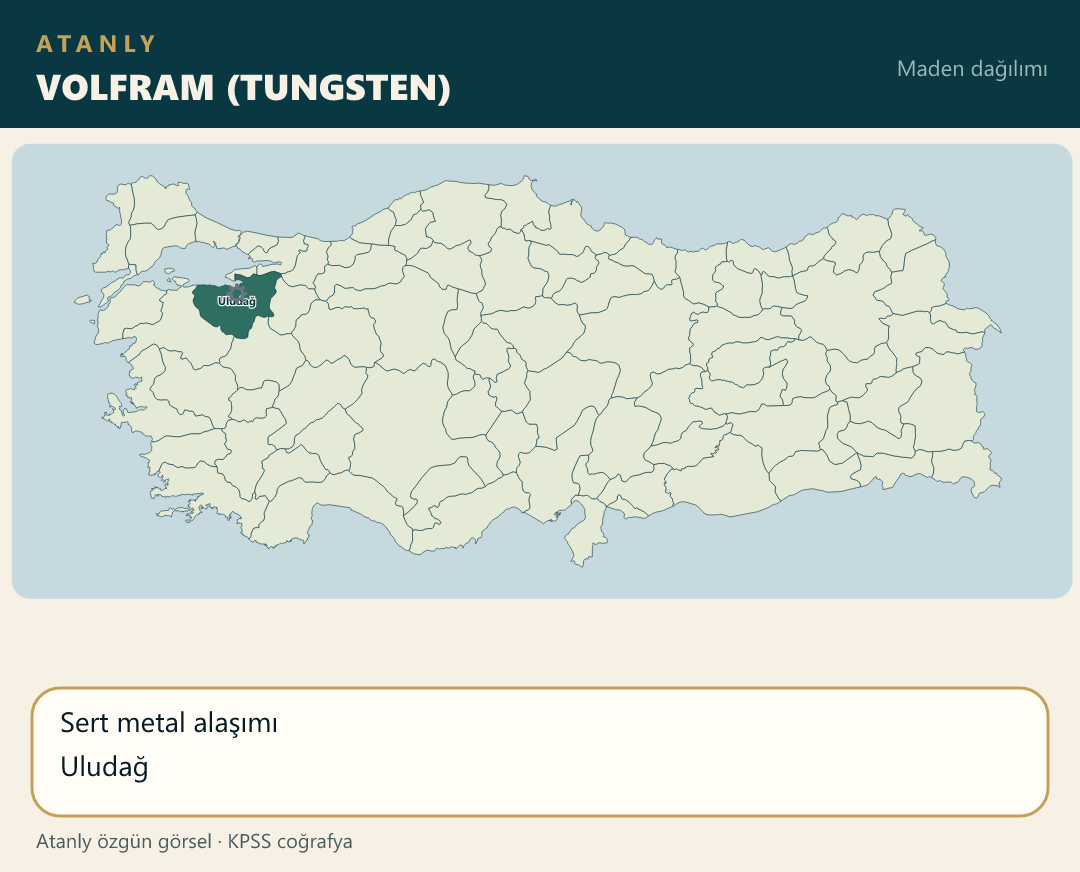
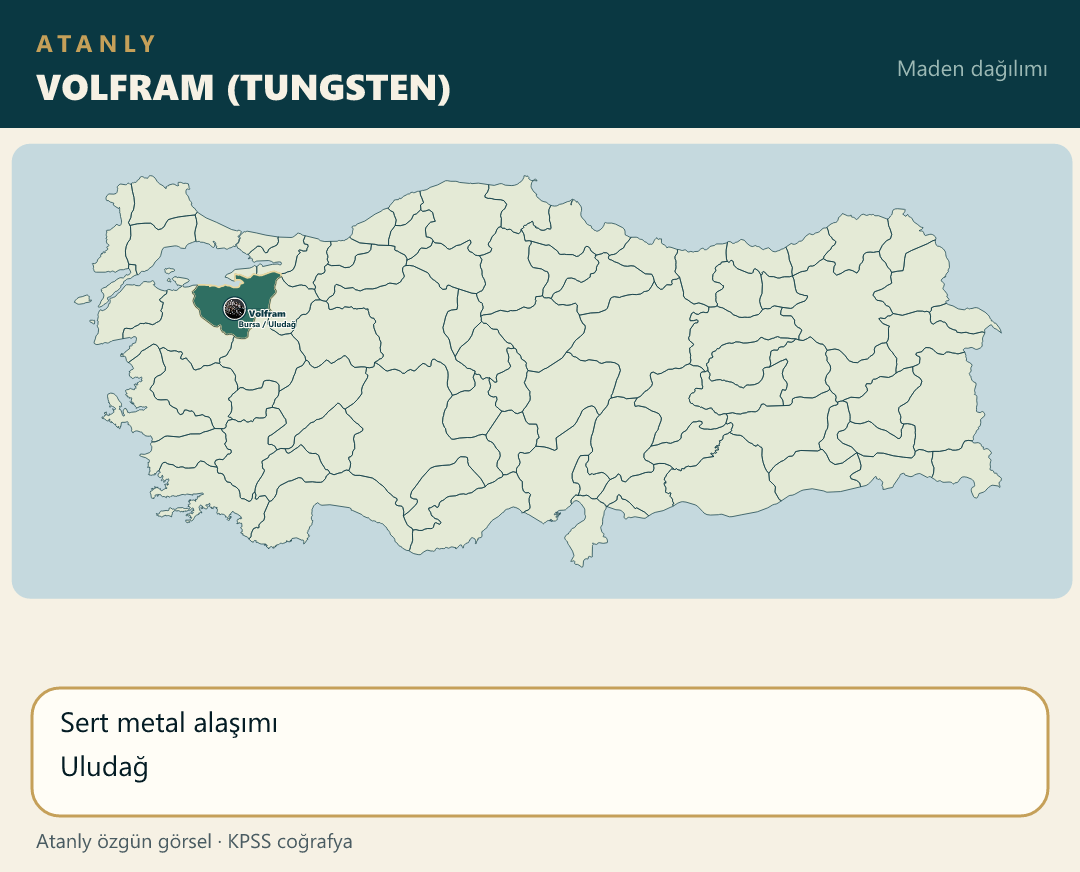
Place the tungsten photo on the Bursa land-center pin.

Changed region(s): [[0.1833, 0.3096, 0.275, 0.4025], [0.825, 0.4025, 0.8556, 0.4335], [0.2444, 0.4954, 0.275, 0.5264]]

diff --git a/scripts/build-atanly-maps.js b/scripts/build-atanly-maps.js
@@ -1129,8 +1129,10 @@ function main() {
                 { il: "Eskişehir", ldx: 32, ldy: 8 }
             ],
             facts: ["Pipo ve süs eşyası"] },
-        { file: "maden_volfram.png", title: "VOLFRAM (TUNGSTEN)", iller: ["Bursa"],
-            yazilar: ["Uludağ"],
+        { file: "maden_volfram.png", title: "VOLFRAM (TUNGSTEN)", urun: "Volfram",
+            noktalar: [
+                { il: "Bursa", ilce: "Uludağ", ldx: 32, ldy: 8 }
+            ],
             facts: ["Sert metal alaşımı", "Uludağ"] },
         { file: "maden_feldspat.png", title: "FELDSPAT", urun: "Feldspat",
             noktalar: [

diff --git a/notlar/cografya-21-not.js b/notlar/cografya-21-not.js
@@ -2,7 +2,7 @@
 (function () {
     function harita(src, alt) {
         return '<div class="mt-4 overflow-hidden rounded-xl border border-blue-200 dark:border-blue-700/50 bg-white dark:bg-slate-800 p-2">' +
-            '<img src="./src/img/' + src + '?v=37" alt="' + alt + ' Haritası" class="w-full h-auto rounded-lg object-contain" loading="lazy">' +
+            '<img src="./src/img/' + src + '?v=38" alt="' + alt + ' Haritası" class="w-full h-auto rounded-lg object-contain" loading="lazy">' +
             "</div>";
     }
 

diff --git a/index.html b/index.html
@@ -119,7 +119,7 @@
     <script src="notlar/cografya-18-not.js?v=17"></script>
     <script src="notlar/cografya-19-not.js?v=25"></script>
     <script src="notlar/cografya-20-not.js?v=1"></script>
-    <script src="notlar/cografya-21-not.js?v=30"></script>
+    <script src="notlar/cografya-21-not.js?v=31"></script>
     <script src="notlar/cografya-22-not.js?v=1"></script>
     <script src="notlar/cografya-23-not.js?v=1"></script>
     <script src="notlar/cografya-24-not.js?v=1"></script>
